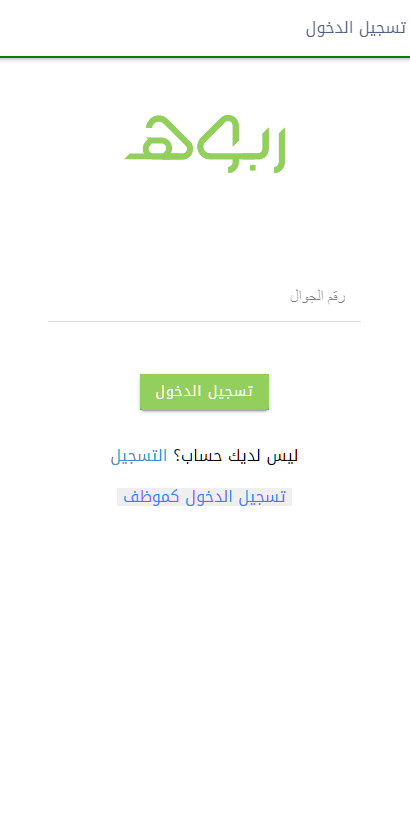
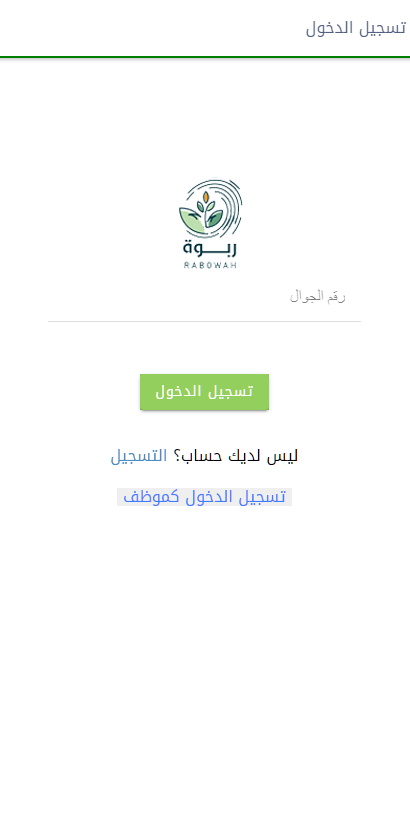
aa

Changed region(s): [[0.2927, 0.1218, 0.7024, 0.335]]

diff --git a/components/Admin_nav.js b/components/Admin_nav.js
@@ -3,7 +3,7 @@ import React, { useState, useEffect } from "react";
 import { useRouter } from "next/router";
 import Link from "next/link";
 import Cookies from "js-cookie";
-
+import Logo  from './logo.png';
 import useAuth, { ProtectRoute } from "../contexts/auth.js";
 
 function Admin_nav() {
@@ -53,7 +53,7 @@ function Admin_nav() {
 
                       router.push("/Management");
                     }}
-                    src="https://i.ibb.co/zVD23x4/5e8b76c87d89db419268f2de-Web-1920-58.png"
+                    src={Logo}
                   />
 
                   <hr />
@@ -337,7 +337,7 @@ function Admin_nav() {
               </>
             ) : Cookies.get("UserType") == "Company" ? (
               <ul className="navbar-nav">
-                <img src="https://i.ibb.co/zVD23x4/5e8b76c87d89db419268f2de-Web-1920-58.png" />
+                <img src={Logo} />
                 <hr />
                 <div style={{ marginBottom: "10px" }} className="row">
                   <div className="col-4">
@@ -461,7 +461,7 @@ function Admin_nav() {
               </ul>
             ) : (
               <ul className="navbar-nav">
-                <img src="https://i.ibb.co/zVD23x4/5e8b76c87d89db419268f2de-Web-1920-58.png" />
+                <img src={Logo} />
                 <hr />
                 <div style={{ marginBottom: "10px" }} className="row">
                   <div className="col-4">
